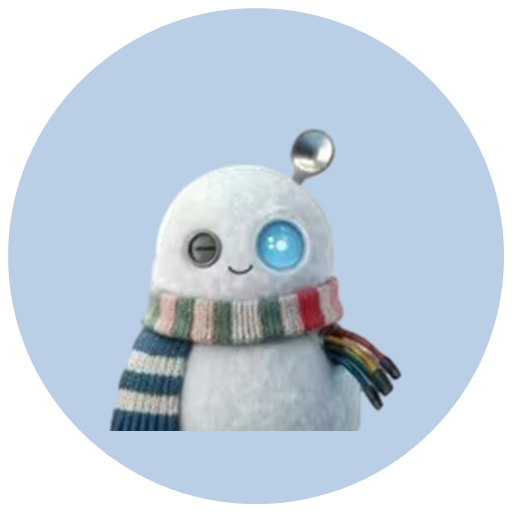
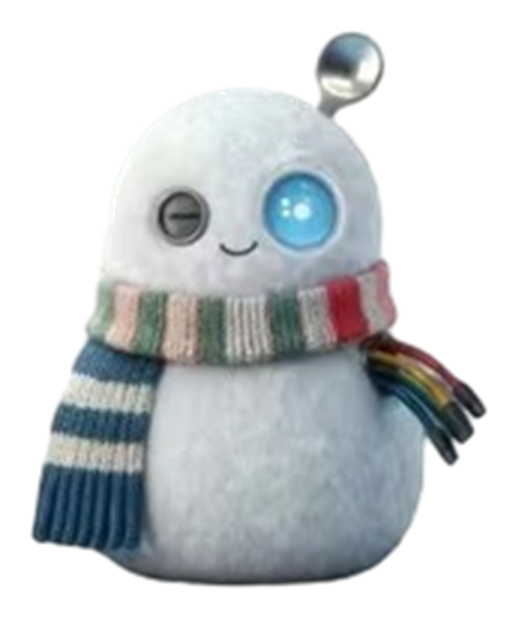
Show the full Coldy figure and tighten the README wording.

diff --git a/README.md b/README.md
@@ -1,8 +1,8 @@
 <p align="center">
   <br>
-  <img src="assets/coldy-avatar.png" alt="Coldy" width="220"/>
+  <img src="assets/coldy-avatar.png" alt="Coldy" width="180"/>
   <br>
-  <span>挂在鼠标上的 Coldy。绳子跟着光标弯曲，这个仓库只做这一个角色。</span>
+  <span>Coldy 的 Windows 鼠标挂件。角色悬挂于光标下方，绳索随指针运动弯曲。</span>
   <br>
 </p>
 
@@ -24,107 +24,102 @@
   <img alt="Windows" src="https://img.shields.io/badge/platform-Windows-0078D6">
 </p>
 
+本仓库只包含 Coldy 这一个角色。形象来自《Colder》MV 中的雪人：圆身、条纹围巾、头顶金属勺、右侧彩色线缆，以及一只闭合的眼睛和一只蓝色发光眼睛。
+
 ## 安装
 
-发布包解压后就能用，不需要安装开发工具，也不需要自己编译。
+发布包可直接运行，无需编译环境。
 
-| 发布 | 文件 | 包含 |
+| 版本 | 资产 | 内容 |
 | --- | --- | --- |
 | [v1.0.0](https://github.com/wei-ei-ei/coldy-mouse-pendant/releases/tag/v1.0.0) | [Coldy-1.0.0-win.zip](https://github.com/wei-ei-ei/coldy-mouse-pendant/releases/download/v1.0.0/Coldy-1.0.0-win.zip) | `Coldy.exe`、`Coldy.exe.config`、`assets/coldy.png` |
 
-把挂件加到电脑上：
+1. 下载并解压发布包，保持目录结构不变。
+2. 运行 `Coldy.exe`。
+3. 挂件附着在系统光标上，同时打开设置窗口。
 
-1. 下载上面的压缩包，解压到一个不会随便删除的文件夹。
-2. 双击 `Coldy.exe`。
-3. 光标下面会出现 Coldy，旁边同时打开控制台。
+登录时自动启动：按 `Win + R`，输入 `shell:startup`，将 `Coldy.exe` 的快捷方式放入该目录。
 
-想开机自动挂上：
-
-1. 按 `Win + R`，输入 `shell:startup`，回车。
-2. 把 `Coldy.exe` 的快捷方式放进这个启动文件夹。
-
-压缩包里的三个文件要留在原来的相对位置。`Coldy.exe` 从自己所在的目录读取 `assets\coldy.png`，并按 `Coldy.exe.config` 选择 .NET Framework 4 运行库。
+`Coldy.exe` 从自身所在目录加载 `assets\coldy.png`，并依据 `Coldy.exe.config` 选择 .NET Framework 4 运行时。
 
 ## 运行环境
 
-程序按 AnyCPU 编译，32 位和 64 位 Windows 都能运行。界面坐标按系统 DPI 处理，高分屏上挂件仍对齐光标。
+构建目标为 AnyCPU，可在 32 位与 64 位 Windows 上运行。进程声明为系统 DPI 感知，挂件坐标与 `GetCursorPos` 使用同一套物理像素。
 
 | 依赖 | 版本 | 说明 |
 | --- | --- | --- |
-| 系统 | Windows 7 SP1 及以上 | 包含 Windows 8、Windows 8.1、Windows 10、Windows 11 |
-| 运行库 | .NET Framework 4.0 及以上 | 4.5、4.6、4.7、4.8 都可以。Windows 10 1903 和 Windows 11 已经自带 4.8 |
-| 发布包 | v1.0.0 | 解压即用，不附带额外安装器 |
+| 操作系统 | Windows 7 SP1 及以上 | 覆盖 Windows 8、8.1、10、11 |
+| 运行时 | .NET Framework 4.0 及以上 | 4.5 至 4.8 均可。Windows 10 1903 与 Windows 11 已内置 4.8 |
+| 发布包 | v1.0.0 | 无安装程序 |
 
-没有装过 .NET Framework 4 的旧系统，先安装 [4.8 运行库](https://dotnet.microsoft.com/download/dotnet-framework/net48)，再打开 `Coldy.exe`。
+未安装 .NET Framework 4 的系统，请先安装 [.NET Framework 4.8](https://dotnet.microsoft.com/download/dotnet-framework/net48)。
 
 ## 使用
 
-### 启动后看到什么
+启动后包含三部分：
 
-- 光标下方的 Coldy，绳子会跟着鼠标甩动，停稳后垂直挂着。
-- 控制台，标题是当前名字。
-- 通知区域里的 Coldy 图标。
+- 跟随光标的挂件。绳索在指针移动时摆动，静止后保持下垂。
+- 设置窗口。标题为当前角色名。
+- 系统托盘图标。
 
-挂件窗口置顶、透明，并且点击穿透，鼠标操作会落到它后面的程序。
+挂件为置顶的分层窗口，启用点击穿透，输入会传递给下层应用。
 
-### 控制台
+### 设置窗口
 
-| 项目 | 怎么用 |
+| 项 | 行为 |
 | --- | --- |
-| 名字 | 改窗口标题和托盘提示。留空时按 Coldy 处理 |
-| 绳子长度 | 向右拖更长。数值显示在滑条右边 |
-| 人物大小 | 改变人物高度，挂点一起缩放 |
-| 光标 | 箭头、手型、十字、工字、圆点，选中后立刻替换系统指针。系统默认会恢复原来的指针 |
-| 光标大小 | 只对上面五种自绘指针有效 |
-| 隐藏快捷键 | 记录两个一起按下的键 |
-| 隐藏人物 | 立刻隐藏或显示，不需要按快捷键 |
-| 退出 | 关闭挂件和控制台，并恢复系统光标 |
+| 名字 | 更新窗口标题与托盘提示。空值回退为 `Coldy` |
+| 绳子长度 | 调整绳索静止长度，当前值显示在滑块右侧 |
+| 人物大小 | 按显示高度缩放角色，悬挂点同步缩放 |
+| 光标 | 在箭头、手型、十字、工字、圆点之间切换系统指针。选择「系统默认」时恢复系统指针 |
+| 光标大小 | 仅对上述五种自绘指针生效 |
+| 隐藏快捷键 | 录制由两个按键组成的切换热键 |
+| 隐藏人物 | 立即切换挂件可见性 |
+| 退出 | 关闭进程并恢复系统光标 |
 
-改动会马上生效，并写进 `Coldy.exe` 旁边的 `coldy.ini`。
+修改立即生效，并写入可执行文件同目录的 `coldy.ini`。
 
-### 隐藏快捷键
+### 显示切换热键
 
-初次启动的隐藏键是 `F8`。改成两个键：
+默认热键为 `F8`。重新录制：
 
-1. 点「隐藏快捷键」，按钮变成「请按两个键」。
-2. 两个键可以一起按，也可以先后按。按钮会先显示第一个键，再显示完整组合，例如 `A + S`。
-3. 记录过程中按 `Esc` 取消，沿用原来的组合。
-4. 记好之后，只有这两个键都按住时才隐藏或显示。按一下切换一次，按住不放不会连续切换。
+1. 点击「隐藏快捷键」。按钮文字变为「请按两个键」。
+2. 两个按键可同时按下，也可依次按下。界面先显示第一键，完成后显示组合，例如 `A + S`。
+3. 录制过程中按 `Esc` 取消，保留原热键。
+4. 两个键同时处于按下状态时触发一次切换。按住不重复触发。
 
-控制台没有焦点时快捷键仍然有效，人物隐藏之后也有效。
+热键为全局热键：设置窗口失焦、挂件隐藏时仍然有效。
 
-### 托盘
+### 系统托盘
 
-右键通知区域的图标：
-
-| 菜单 | 作用 |
+| 菜单 | 行为 |
 | --- | --- |
-| 显示控制台 | 把控制台带到前面。双击图标也是这个作用 |
-| 隐藏人物 / 显示人物 | 切换挂件 |
-| 退出 | 结束程序，并恢复系统光标 |
+| 显示控制台 | 激活设置窗口。双击托盘图标等效 |
+| 隐藏人物 / 显示人物 | 切换挂件可见性 |
+| 退出 | 结束进程并恢复系统光标 |
 
 ### 退出
 
-用控制台上的「退出」、托盘里的「退出」，或者直接关掉控制台。这三种都会把系统光标恢复回去。
+通过设置窗口的「退出」、托盘菜单的「退出」，或关闭设置窗口退出。这三种路径都会恢复系统光标。
 
-不要在任务管理器里直接结束 `Coldy.exe`。那样会跳过恢复，自定义指针会留在系统里，直到重新打开本程序再正常退出。
+请勿从任务管理器结束 `Coldy.exe`。强制结束会跳过光标恢复，自定义指针会保留到本程序再次正常退出。
 
 ## 运行参数
 
-控制台里的范围就是滑条的范围。
+滑块范围即下表中的取值范围。
 
-| 参数 | 配置项 | 范围 | 初次启动 | 作用 |
+| 参数 | 配置键 | 范围 | 默认值 | 说明 |
 | --- | --- | --- | --- | --- |
-| 名字 | `name` | 任意文本 | `Coldy` | 窗口标题和托盘提示 |
-| 绳子长度 | `rope` | 40–320 | 120 | 绳子静止长度，单位是像素 |
-| 人物大小 | `size` | 80–420 | 190 | 人物显示高度，单位是像素 |
-| 光标 | `cursor` | 见下表 | `arrow` | 替换后的系统指针 |
-| 光标大小 | `cursorSize` | 16–128 | 32 | 指针边长，单位是像素 |
-| 隐藏快捷键 | `hotkey`、`hotkeyVk`、`hotkeyVk2` | 两个不同的键 | `F8` | 同时按下时隐藏或显示 |
+| 名字 | `name` | 字符串 | `Coldy` | 窗口标题与托盘提示 |
+| 绳子长度 | `rope` | 40–320 | 120 | 绳索静止长度，单位为像素 |
+| 人物大小 | `size` | 80–420 | 190 | 角色显示高度，单位为像素 |
+| 光标 | `cursor` | 见下表 | `arrow` | 系统指针样式 |
+| 光标大小 | `cursorSize` | 16–128 | 32 | 指针边长，单位为像素 |
+| 隐藏快捷键 | `hotkey`、`hotkeyVk`、`hotkeyVk2` | 两个互异虚拟键码 | `F8` | 同时按下时切换可见性 |
 
-光标配置值：
+`cursor` 取值：
 
-| 界面 | 配置值 |
+| 界面 | 值 |
 | --- | --- |
 | 箭头 | `arrow` |
 | 手型 | `hand` |
@@ -133,52 +128,52 @@
 | 圆点 | `dot` |
 | 系统默认 | `system` |
 
-选「系统默认」时，光标大小滑条不起作用。
+`cursor` 为 `system` 时，光标大小滑块禁用。
 
-这些参数写在程序里，控制台不能改：
+以下为编译期常量，设置窗口不可修改：
 
-| 参数 | 值 | 作用 |
+| 常量 | 值 | 说明 |
 | --- | --- | --- |
-| 绳段数 | 7 | 活动段数，绳点比段数多一个 |
-| 重力 | 11000 | 每步加到绳子上的下拉力 |
-| 模拟步长 | 1/240 秒 | 物理更新的固定间隔 |
-| 单帧最长时间 | 0.033 秒 | 卡住之后不会一次补太多步 |
-| 单帧最多步数 | 8 | 同上 |
-| 画面刷新 | 约 16 毫秒 | 挂件重画间隔 |
-| 绳子曲线张力 | 0.45 | 把绳点连成平滑曲线 |
-| 快捷键轮询 | 30 毫秒 | 检查两个隐藏键是否都按下 |
-| 悬挂偏移 | 光标大小的 0.45 倍 | 绳子上端离开指针热点的距离 |
+| 绳段数 | 7 | 距离约束的段数，质点数为段数加一 |
+| 重力 | 11000 | 每个模拟步施加的向下加速度系数 |
+| 固定步长 | 1/240 秒 | Verlet 积分间隔 |
+| 单帧时间上限 | 0.033 秒 | 限制掉帧后的追帧时长 |
+| 单帧步数上限 | 8 | 同上 |
+| 刷新间隔 | 约 16 毫秒 | 挂件重绘周期 |
+| 曲线张力 | 0.45 | `DrawCurve` 张力 |
+| 热键轮询间隔 | 30 毫秒 | 读取两个虚拟键的按下状态 |
+| 悬挂偏移 | 指针尺寸 × 0.45 | 绳索上端相对指针热点的距离 |
 
-`coldy.ini` 在运行时生成，不进入版本库。把这份文件和 exe 放在一起，名字、绳子、大小、光标和快捷键会保留。
+`coldy.ini` 在运行时生成，不纳入版本控制。与可执行文件放在同一目录时，名称、绳长、尺寸、指针和热键会被保留。
 
 ## 开发
 
-程序用 C# 5 和 WinForms 写成，目标运行库是 .NET Framework 4，没有 NuGet 包。界面、绳子和绘制都在 `src/Program.cs`。`src/app.manifest` 声明系统 DPI 感知，以及 Windows 7 到 Windows 10 的兼容性。`src/app.config` 声明接受 .NET Framework 4.0 及以上的运行库。
+实现为 C# 5 / WinForms，目标运行时为 .NET Framework 4，无 NuGet 依赖。界面、绳索求解与绘制位于 `src/Program.cs`。`src/app.manifest` 声明系统 DPI 感知，以及 Windows 7 至 Windows 10 的兼容性。`src/app.config` 声明可使用 .NET Framework 4.0 及以上运行时。
 
-挂件是分层窗口。每帧把绳子和人物画进带透明通道的位图，再用 `UpdateLayeredWindow` 贴到屏幕上。
+挂件窗口使用 `WS_EX_LAYERED` 与 `WS_EX_TRANSPARENT`。每帧将绳索和角色绘制到预乘 alpha 的 32 位位图，再通过 `UpdateLayeredWindow` 提交。
 
-绳子是仓库里自己写的 Verlet 求解器。每一段的长度被约束住，所以绳子会弯曲而不是被拉长。人物转角取最后一段的方向。求解按固定时间步推进，鼠标移动过快时限制单帧步数，静止一会儿后停住，避免挂件原地微抖。绳子从脑袋顶上的绒毛引出来，勺子留在旁边。
+绳索为仓库内实现的 Verlet 求解器。段长由距离约束维持，因此绳索弯曲而不被拉长。角色转角取末段方向。积分使用固定时间步；指针高速移动时限制单帧步数；静止一段时间后冻结，避免静止抖动。悬挂点位于头顶绒毛，金属勺不与绳索重叠。
 
-光标由程序绘制。选中样式后替换系统里常用的几套指针；选择「系统默认」或正常退出时恢复。两个普通键的组合无法用系统全局热键表示，所以隐藏快捷键改为轮询按键状态。
+系统指针由程序绘制。选择样式后替换常用指针资源；选择「系统默认」或正常退出时，通过 `SystemParametersInfo(SPI_SETCURSORS)` 恢复。两个普通按键的组合无法用 `RegisterHotKey` 表达，因此热键改为 `GetAsyncKeyState` 轮询，并在上升沿触发。
 
-在仓库根目录编译：
+在仓库根目录构建：
 
 ```bat
 C:\Windows\Microsoft.NET\Framework64\v4.0.30319\csc.exe /nologo /target:winexe /platform:anycpu /win32manifest:src\app.manifest /out:Coldy.exe src\Program.cs
 copy /Y src\app.config Coldy.exe.config
 ```
 
-编译结果和配置文件放在仓库根目录，旁边原有的 `assets` 就能被程序读到。`Coldy.exe` 和 `Coldy.exe.config` 不进入版本库。
+可执行文件与配置文件输出到仓库根目录，以便加载同级 `assets`。`Coldy.exe` 与 `Coldy.exe.config` 不纳入版本控制。
 
 ```
-src/Program.cs          挂件、绳子、控制台、光标
-src/app.manifest        DPI 感知和系统兼容声明
-src/app.config          .NET Framework 4 运行库声明
-assets/coldy.png        程序使用的透明形象
-assets/coldy-avatar.png 说明文档开头的头像
-Coldy.exe               编译结果，不进入版本库
-Coldy.exe.config        运行库配置，不进入版本库
-coldy.ini               本机配置，不进入版本库
+src/Program.cs          挂件、绳索求解、设置窗口、指针
+src/app.manifest        DPI 感知与操作系统兼容声明
+src/app.config          .NET Framework 4 运行时声明
+assets/coldy.png        运行时加载的透明精灵
+assets/coldy-avatar.png 文档页眉使用的全身形象
+Coldy.exe               构建产物，不纳入版本控制
+Coldy.exe.config        运行时配置，不纳入版本控制
+coldy.ini               本地配置，不纳入版本控制
 ```
 
 ## 贡献
